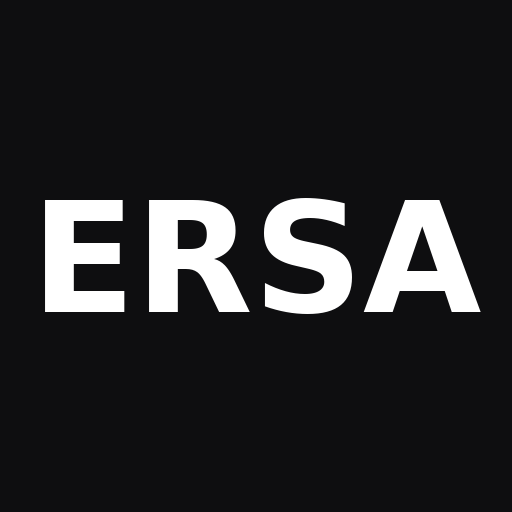
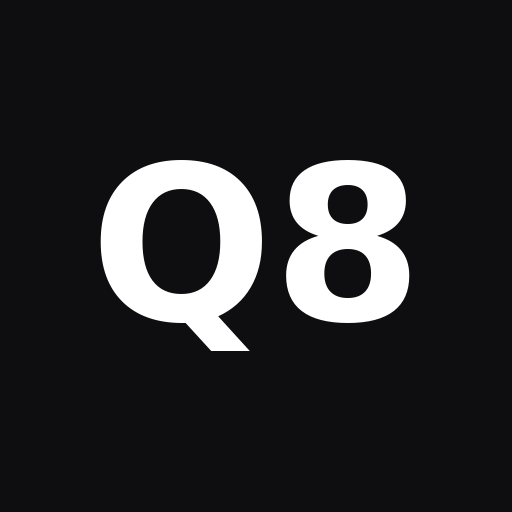
Add files via upload

Changed region(s): [[0.0625, 0.3125, 0.9375, 0.6875]]

diff --git a/index.html b/index.html
@@ -4,14 +4,14 @@
 <meta charset="UTF-8" />
 <meta name="viewport" content="width=device-width, initial-scale=1, viewport-fit=cover, maximum-scale=1" />
 <meta name="theme-color" content="#FFFFFF" />
-<title>ERSA · Saat & Gözlük</title>
+<title>Q8 · Saat & Gözlük</title>
 <link rel="preconnect" href="https://fonts.googleapis.com" />
 <link rel="preconnect" href="https://fonts.gstatic.com" crossorigin />
 <link href="https://fonts.googleapis.com/css2?family=Poppins:wght@400;500;600;700&display=swap" rel="stylesheet" />
 <link rel="manifest" href="manifest.json" />
 <style>
 /* ============================================================
-   ERSA — Saat & Gözlük  ·  Sibs görsel dili
+   Q8 — Saat & Gözlük  ·  Sibs görsel dili
    ============================================================ */
 :root{
   --bg:#FFFFFF;
@@ -386,7 +386,7 @@ img{display:block;max-width:100%}
 
 <!-- SPLASH -->
 <div id="splash">
-  <div class="splash-mark">ERSA<sup>®</sup></div>
+  <div class="splash-mark">Q8<sup>®</sup></div>
   <div class="splash-sub">Saat · Gözlük · Orijinal</div>
 </div>
 
@@ -396,7 +396,7 @@ img{display:block;max-width:100%}
   <header class="topbar">
     <div class="topbar-row">
       <div class="brand">
-        <span class="wm">ERSA<sup>®</sup></span>
+        <span class="wm">Q8<sup>®</sup></span>
         <span class="tag">Saat · Gözlük</span>
       </div>
       <div class="curr-toggle" id="currToggle">
@@ -452,7 +452,7 @@ img{display:block;max-width:100%}
       <div class="profile-head">
         <div class="av">E</div>
         <div>
-          <div class="nm">ERSA</div>
+          <div class="nm">Q8</div>
           <div class="sub">Saat & Gözlük · Türkiye / Çin</div>
         </div>
       </div>
@@ -468,7 +468,7 @@ img{display:block;max-width:100%}
       <div class="stat-row"><span>Ödeme</span><span class="v">Havale / EFT · Kapıda</span></div>
     </div>
     <div class="about-card">
-      <p>ERSA, tek tek seçilmiş saat ve gözlükleri doğrudan alıcıyla buluşturan bağımsız bir koleksiyondur. Pazaryeri değil — her parça bizzat kontrol edilir, listelenir ve gönderilir.</p>
+      <p>Q8, tek tek seçilmiş saat ve gözlükleri doğrudan alıcıyla buluşturan bağımsız bir koleksiyondur. Pazaryeri değil — her parça bizzat kontrol edilir, listelenir ve gönderilir.</p>
       <p>Soru, teklif ya da özel istek için doğrudan yazabilirsiniz.</p>
       <p><a href="#" onclick="toast('İletişim entegrasyonu canlıda eklenecek');return false">WhatsApp ile yaz →</a></p>
     </div>
@@ -577,8 +577,8 @@ img{display:block;max-width:100%}
    ============================================================ */
 const CONFIG = {
   USE_MOCK: false,
-  SHEET_API: "https://script.google.com/macros/s/AKfycbztoFeww7_bGPfl59uUdgmQyDHTPaZAjyMjdV40o4A0HcMFOZeKo09RyJ-mJRaIzf9T/exec", // Apps Script /exec URL
-  BRAND: "ERSA",
+  SHEET_API: "https://script.google.com/macros/s/AKfycbyGtD54VUuJkRUeZSuRO8FGF90BGScGIF5gTyIHv8fFukaXuQ0D0cD0pnwzKQ0yMhk/exec", // Apps Script /exec URL
+  BRAND: "Q8",
   USD_TRY: 41.0,          // kur (Sheets'ten de gelebilir)
   WHATSAPP: "",           // ör: 905xxxxxxxxx
   FREE_SHIPPING: true,
@@ -592,8 +592,8 @@ const state = {
   sort:"new",
   filter:{ brand:null, condition:null, max:null, favOnly:false },
   cur:"TRY",
-  favs:new Set(JSON.parse(localStorage.getItem("ersa_favs")||"[]")),
-  cart:JSON.parse(localStorage.getItem("ersa_cart")||"[]"),
+  favs:new Set(JSON.parse(localStorage.getItem("q8_favs")||"[]")),
+  cart:JSON.parse(localStorage.getItem("q8_cart")||"[]"),
   current:null, slide:0,
   tmpSort:"new", tmpFilter:null, tmpOffer:{type:null},
   insurance:false
@@ -711,7 +711,7 @@ function postHTML(p){
       <div class="post-seller">
         <div class="ps-av">E</div>
         <div>
-          <div class="ps-name">ERSA</div>
+          <div class="ps-name">Q8</div>
           <div class="ps-badge">
             <svg width="13" height="13" viewBox="0 0 24 24" fill="none" stroke="currentColor" stroke-width="3"><path d="M20 6L9 17l-5-5"/></svg>
             Orijinal · Garantili
@@ -776,7 +776,7 @@ function feedOffer(id){
 }
 function shareItem(id){
   const p = DATA.find(x=>x.id===id);
-  const data = {title:"ERSA · "+(p?p.name:""), text:p?`${p.name} — ${fmt(p.priceUSD)}`:"", url:location.href};
+  const data = {title:"Q8 · "+(p?p.name:""), text:p?`${p.name} — ${fmt(p.priceUSD)}`:"", url:location.href};
   if(navigator.share){ navigator.share(data).catch(()=>{}); }
   else toast("Paylaşım bağlantısı kopyalandı");
 }
@@ -847,7 +847,7 @@ function openDetail(id){
       <div class="ship-row"><span class="k">Gönderim</span><span class="v">${CONFIG.FREE_SHIPPING?"Ücretsiz":"Alıcıya ait"}</span></div>
       <div class="ship-row"><span class="k">Süre</span><span class="v">1–3 iş günü</span></div>
       <div class="ship-row"><span class="k">İade</span><span class="v">3 gün içinde</span></div>
-      <div class="ship-row"><span class="k">ERSA koruması</span><span class="v">ERSA Güvence</span></div>
+      <div class="ship-row"><span class="k">Q8 koruması</span><span class="v">Q8 Güvence</span></div>
     </div>`;
   buildActionBar(p);
   go("detail");
@@ -881,12 +881,12 @@ function backFromDetail(){ go(state.prevView||"shop"); }
 function toggleFav(id,el){
   if(state.favs.has(id)){state.favs.delete(id);el&&el.classList.remove("on");}
   else{state.favs.add(id);el&&el.classList.add("on");}
-  localStorage.setItem("ersa_favs",JSON.stringify([...state.favs]));
+  localStorage.setItem("q8_favs",JSON.stringify([...state.favs]));
   if(state.view==="favs") renderFavs();
 }
 
 /* ---------- SEPET ---------- */
-function saveCart(){ localStorage.setItem("ersa_cart",JSON.stringify(state.cart)); updateCartBadge(); }
+function saveCart(){ localStorage.setItem("q8_cart",JSON.stringify(state.cart)); updateCartBadge(); }
 function addToCart(id){
   if(!state.cart.includes(id)) state.cart.push(id);
   saveCart(); toast("Sepete eklendi"); 
@@ -913,7 +913,7 @@ function renderCart(){
   body.innerHTML = `
     <div class="notice">
       <svg width="18" height="18" viewBox="0 0 24 24" fill="none" stroke="currentColor" stroke-width="2" style="flex:0 0 auto"><path d="M20 6L9 17l-5-5"/></svg>
-      <span>Sipariş vererek ERSA satış ve iade koşullarını kabul etmiş olursun.</span>
+      <span>Sipariş vererek Q8 satış ve iade koşullarını kabul etmiş olursun.</span>
     </div>
     <div class="lbl" style="margin-top:20px">Teslimat adresi</div>
     <div class="add-addr" onclick="toast('Adres formu canlıda eklenecek')">
@@ -934,7 +934,7 @@ function renderCart(){
       <svg width="22" height="22" viewBox="0 0 24 24" fill="none" stroke="var(--brass)" stroke-width="1.8" style="flex:0 0 auto"><path d="M12 3l8 3v6c0 5-3.5 8-8 9-4.5-1-8-4-8-9V6z"/></svg>
       <div style="flex:1">
         <div style="font-weight:700">Alışverişini güvenceye al</div>
-        <div style="font-size:12.5px;color:var(--muted)">ERSA Güvence · ${fmt(CONFIG.INSURANCE_PRICE_USD)}</div>
+        <div style="font-size:12.5px;color:var(--muted)">Q8 Güvence · ${fmt(CONFIG.INSURANCE_PRICE_USD)}</div>
       </div>
       <div class="toggle ${state.insurance?'on':''}" onclick="toggleIns()"></div>
     </div>

diff --git a/sw.js b/sw.js
@@ -1,5 +1,5 @@
-/* ERSA PWA service worker */
-const CACHE = "ersa-v2";
+/* Q8 PWA service worker */
+const CACHE = "q8-v3";
 const ASSETS = ["./", "./index.html", "./manifest.json"];
 
 self.addEventListener("install", (e) => {